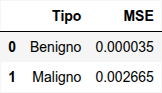
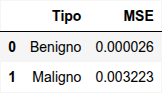
Capturamos el trafico de red que hacia nuestro servidor web. Ya se captura el flujo correctamente

Changed region(s): [[0.7407, 0.7527, 0.9568, 0.8817], [0.8333, 0.4301, 0.9568, 0.5591]]

diff --git a/code/anomalias.py b/code/anomalias.py
@@ -1,4 +1,5 @@
 import os
+import joblib
 import pandas as pd
 import numpy as np
 import matplotlib.pyplot as plt
@@ -9,7 +10,6 @@ from sklearn.model_selection import train_test_split
 from sklearn.preprocessing import MinMaxScaler
 from tensorflow.keras.models import Model
 from tensorflow.keras.layers import Input, Dense
-from tensorflow.keras.callbacks import EarlyStopping
 
 
 
@@ -22,6 +22,7 @@ class Anomalias:
         # Usamos load_dotenv() para obtener las variables del archivo .env, para evitar filtrar la ruta completa del repositorio
         self.repo_path = os.getenv('REPOSITORY_PATH')
         self.data_path = os.path.join(self.repo_path, 'data/csv/')
+        self.model_path = os.path.join(self.repo_path, 'data/model')
         self.df_list = []
         self.drop_columns = []
         self.scaler = MinMaxScaler()
@@ -196,7 +197,7 @@ class Anomalias:
 
 
     # Metodo que crea, entrena y devuelve el autoencoder con el fin de replicar los datos
-    def create_and_train_autoencoder(self, X_train_scaled, X_test_scaled):
+    def create_and_train_autoencoder(self, X_train_scaled, X_test_scaled, save=True):
         # Creamos la red neuronal (autoencoder) para predecir los datos
         input_dim = X_train_scaled.shape[1]
         entrada = Input(shape=(input_dim,))
@@ -206,23 +207,20 @@ class Anomalias:
         autoencoder = Model(inputs=entrada, outputs=decoder)
         autoencoder.compile(optimizer='adam', loss='mse')
 
-        # Usamos un EarlyStopping para detectar a partir de cuantas epochs el modelo empieza memorizar los datos.
-        # Si en 3 epochs no ha mejorado, se detiene
-        early_stop = EarlyStopping(
-            monitor='val_loss', 
-            patience=3,          # Si en 3 épocas no mejora, se para
-            restore_best_weights=True
-        )
-
         # Ahora es cuando entrenamos la red con los datos que hemos dividido anteriormente
         print('Comenzamos el entrenamiento de la red...')
         history = autoencoder.fit(
             X_train_scaled,
             X_train_scaled, # Al ser un autoencoder la salida esperada tiene que ser igual a los inputs del modelo
-            epochs=20,
+            epochs=30,
             batch_size=256,
             validation_data=(X_test_scaled, X_test_scaled),
-            callbacks=[early_stop],
             verbose=1
         )
+
+        if save:
+            # Guardamos el modelo y el scaler para poder acceder a ellos mas facilmente
+            joblib.dump(self.scaler, os.path.join(self.model_path, 'scaler.pkl'))
+            joblib.dump(autoencoder, os.path.join(self.model_path, 'autoencoder.pkl'))
+
         return autoencoder, history

diff --git a/code/stream_detection.py b/code/stream_detection.py
@@ -1,5 +1,9 @@
 from nfstream import NFStreamer
 import pandas as pd
+import numpy as np
+import joblib
+import os
+from dotenv import load_dotenv
 
 
 
@@ -8,6 +12,14 @@ import pandas as pd
 class Detection:
 
     def __init__(self):
+        load_dotenv()
+        self.repo_path = os.getenv('REPOSITORY_PATH')
+        self.model_path = os.path.join(self.repo_path, 'data/model')
+        # Leemos tanto el scaler como el model que obtenemos a partir de la clase Anomalias (anomalias.py)
+        self.scaler = joblib.load(os.path.join(self.model_path, 'scaler.pkl'))
+        self.autoencoder = joblib.load(os.path.join(self.model_path, 'autoencoder.pkl'))
+        print(self.autoencoder.summary())
+
         # Definimos las columnas que debe tener el flujo de datos
         self.columns = [
             ' Destination Port',
@@ -167,7 +179,7 @@ class Detection:
         nfstreamer = NFStreamer(source=f"{net_if}", 
                             statistical_analysis=True, # Muy importante para capturar metricas estadisticas de la red (si no, faltarian variables para convertir los datos)
                             splt_analysis=0,
-                            bpf_filter=f"dst host {server_ip} and (port 80 or port 443)",
+                            bpf_filter=f"dst host {server_ip} and tcp dst port 8080",
                             promiscuous_mode=True,
                             # snapshot_len=100,
                             idle_timeout=15, 
@@ -178,11 +190,18 @@ class Detection:
         try:
             # Entramos en un bucle hasta que se detecte algun flujo, o hasta que el usuario detenga el programa
             for flow in nfstreamer:
+                print(flow)
                 # Llamamos al metodo map_flow para que los datos tengan el mismo formato que el dataset                
                 df_live = self.map_flow(flow)
-                print(df_live)
                 
-                # Ahora es donde tendriamos que pasar el flujo de datos por el autoencoder
+                # Aplicamos el scaler para que los datos tengan la misma escala que los datos de entrenamiento
+                df_flow_scaled = self.scaler.transform(df_live)
+
+                # A continuacion pasamos el flujo de datos por el autoencoder
+                prediction = self.autoencoder.predict(df_flow_scaled)
+                # Y calculamos el error cuadratico medio MSE
+                mse = np.mean(np.power(df_flow_scaled - prediction, 2), axis=1)[0]
+                print(mse)
                 
                 # Y en caso de que se detectase como malicioso, realizar una clasificacion para obtener el tipo de ataque
 
